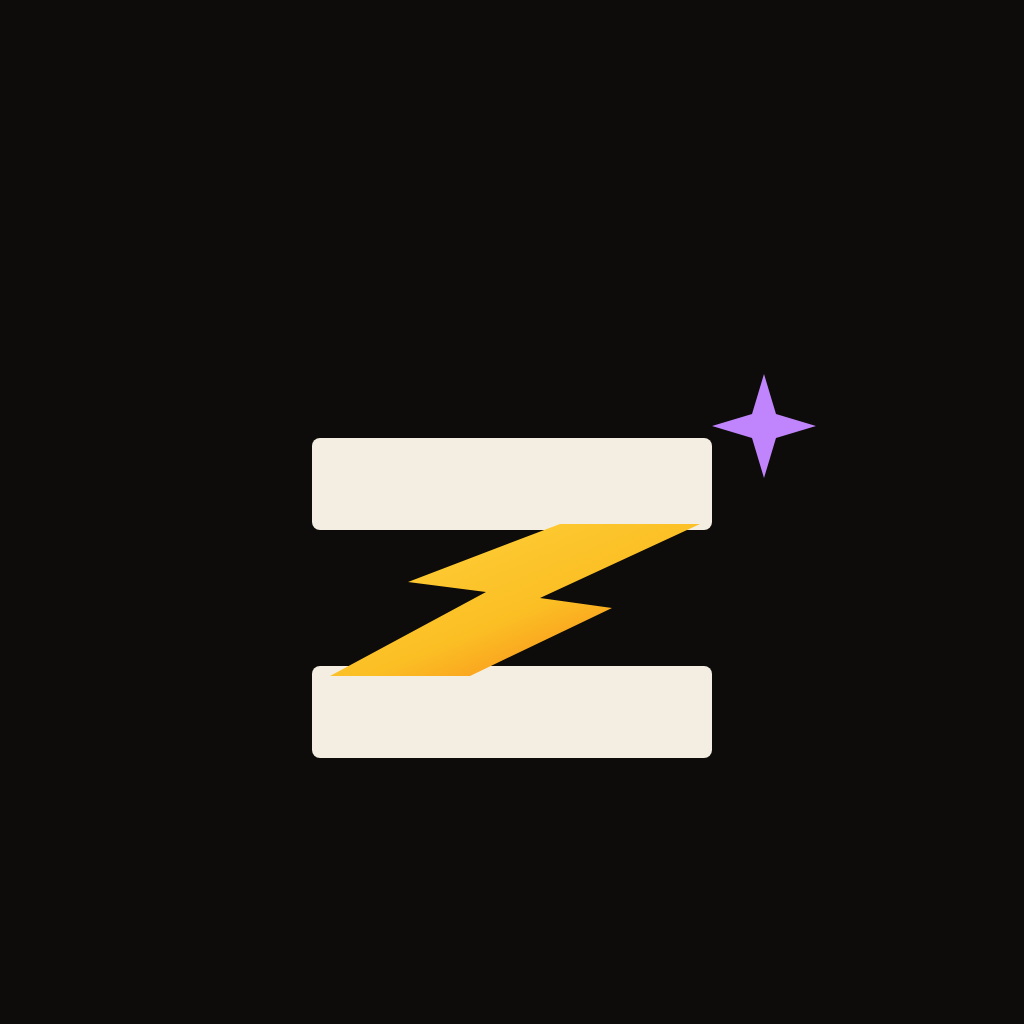
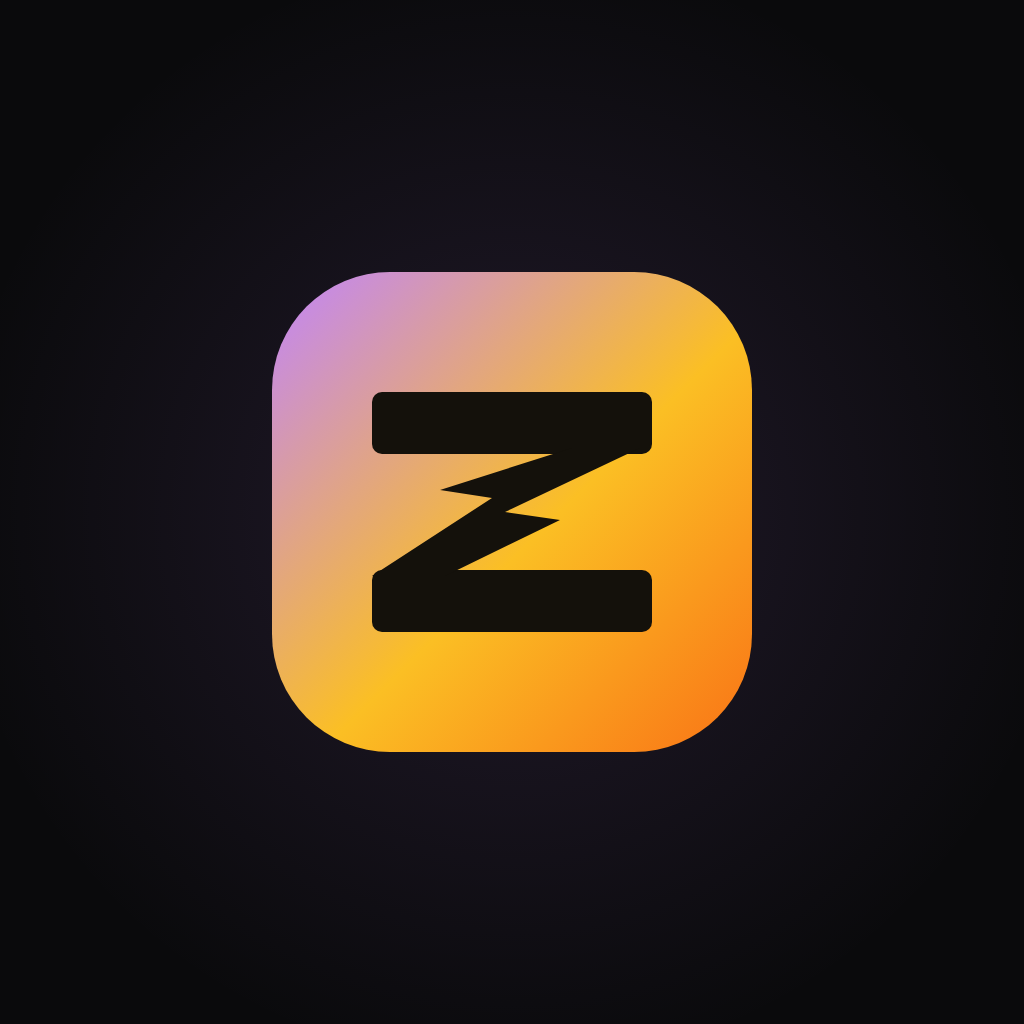
Final design: gradient squircle with Z-bolt cut (Hdr picked variant A)

Changed region(s): [[0.25, 0.25, 0.7812, 0.75]]

diff --git a/README.md b/README.md
@@ -1,4 +1,4 @@
-# Zoostr logo — the Z-Spark
+# Zoostr logo — gradient squircle, Z-bolt cut
 
 Logo entry for Zoostr, the Creator Hearth on Sparkz, for poidh bounty
 [#1568](https://poidh.xyz/base/bounty/1568).
@@ -7,34 +7,29 @@ Logo entry for Zoostr, the Creator Hearth on Sparkz, for poidh bounty
 
 ## The idea
 
-Zoostr starts with a Z, and a Hearth grows with Sparks — so the mark is a
-**Z whose diagonal is a lightning bolt**:
+An app-icon squircle filled with Sparkz's own gradient — purple `#C084FC`
+→ amber `#FBBF24` → hearth orange `#F97316` — with a dark **Z cut through
+it**. The Z's diagonal is a lightning bolt: the Spark that grows the
+Hearth. A lowercase `zoostr` wordmark sits under the tile.
 
-- Two bone-white bars form the top and bottom of the Z.
-- The diagonal is a single amber bolt (Sparkz amber `#FBBF24` → hearth-fire
-  orange `#F97316`): the Spark that grows the Hearth.
-- One purple spark star (`#C084FC`, the other Sparkz brand colour) sits at
-  the top-right terminal — the first spark the hearth gives off.
-
-Flat geometry, no effects: it reads at favicon size and at billboard size,
-and it is built to sit on dark backgrounds, per the brief.
+Flat vector geometry, no effects: it reads at favicon size and at
+billboard size, and it is built to sit on dark backgrounds, per the brief.
 
 ## Files
 
 | File | What |
 | --- | --- |
-| `zoostr-logo.svg` | Full lockup (mark + wordmark), pure vector |
+| `zoostr-logo.svg` | Full lockup (tile + wordmark), pure vector |
 | `zoostr-logo-1024.png` | The same lockup, square 1024×1024 PNG |
-| `zoostr-mark.svg` | Mark only, pure vector |
-| `zoostr-mark-1024.png` | Mark only, square 1024×1024 PNG |
+| `zoostr-mark.svg` | Tile mark only, pure vector |
+| `zoostr-mark-1024.png` | Tile mark only, square 1024×1024 PNG |
 
 ## Colours
 
-- Background `#0D0C0A` (warm near-black)
-- Bone `#F4EEE2`
-- Amber gradient `#FFD23E` → `#FBBF24` → `#F97316`
-- Spark purple `#C084FC`
-- Muted subline `#A79E88`
+- Background `#0A0A0C`
+- Gradient `#C084FC` → `#FBBF24` → `#F97316`
+- Z knockout `#14110B`
+- Wordmark `#F5F2EA`, subline `#8E8B85`
 
 ## Note
 
